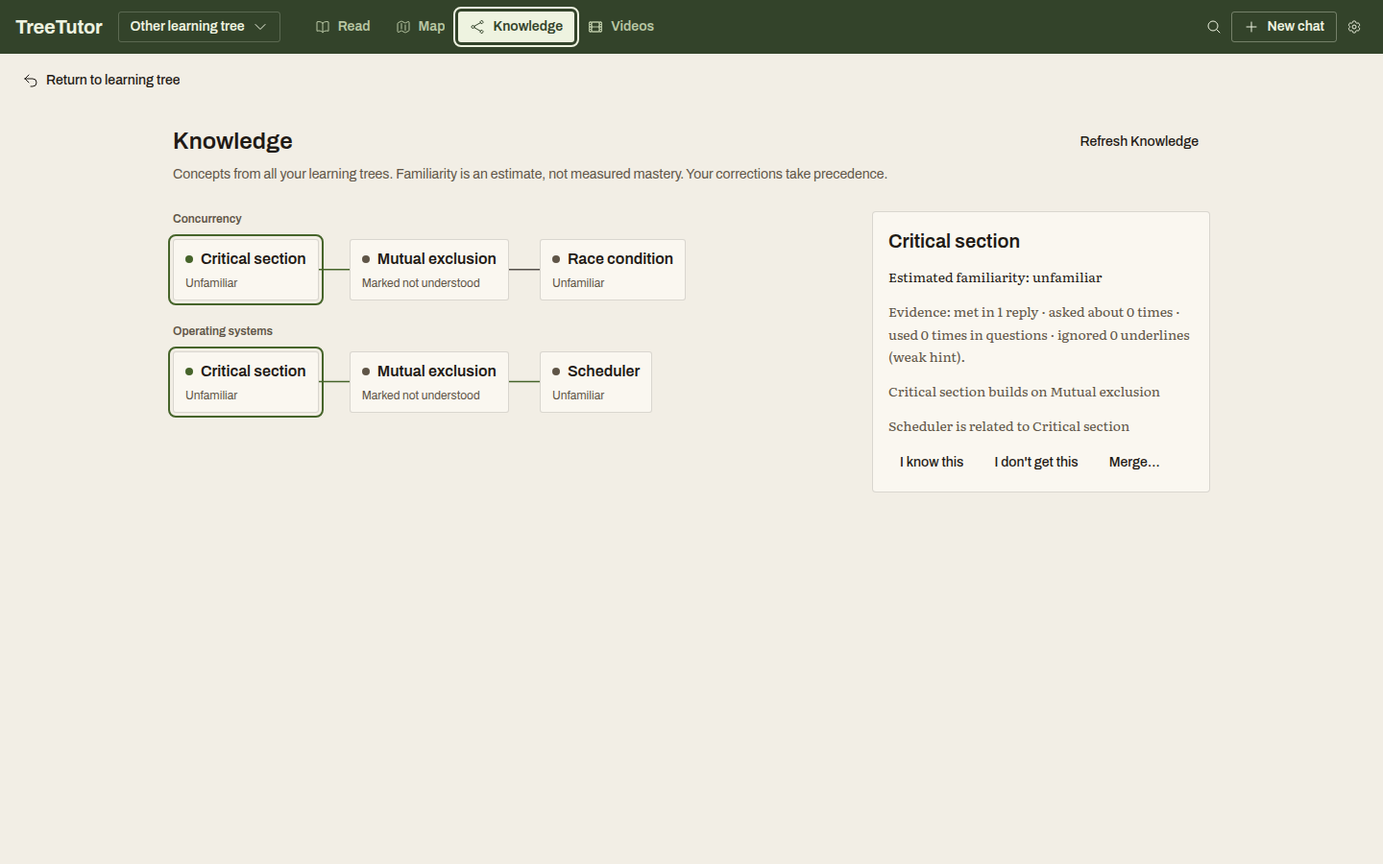
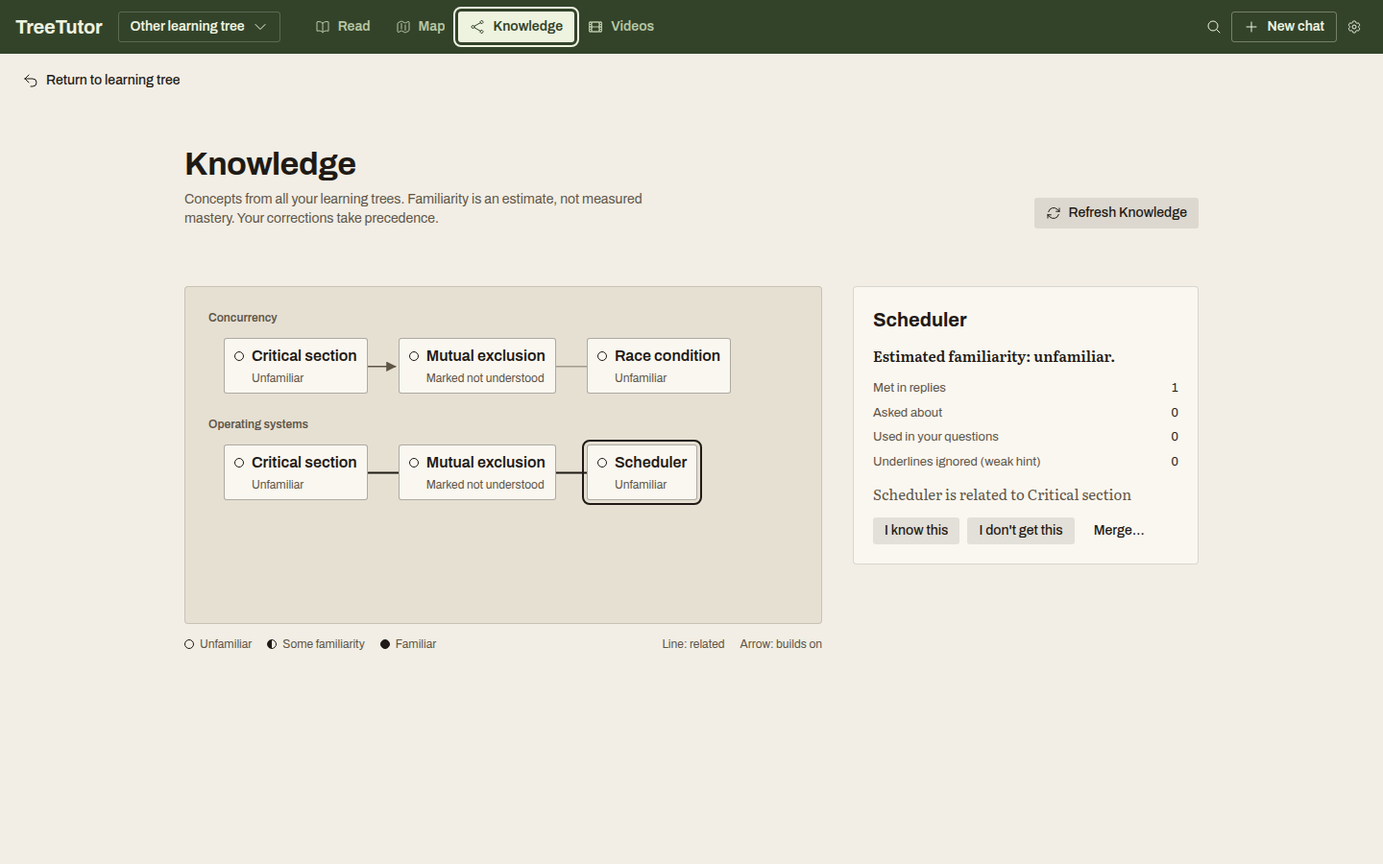
task: TreeTutor-y36.8 Knowledge and Videos views

diff --git a/src/KnowledgePage.tsx b/src/KnowledgePage.tsx
@@ -4,6 +4,7 @@ import { Heading, Text } from '@astryxdesign/core/Text';
 import { Button } from '@astryxdesign/core/Button';
 import { Dialog, DialogHeader } from '@astryxdesign/core/Dialog';
 import { Selector } from '@astryxdesign/core/Selector';
+import { ArrowPathIcon } from '@heroicons/react/24/outline';
 
 type Concept = { name: string; topics: string[]; familiarity: number; correction: 'known' | 'unknown' | null; evidence: { met: number; asked: number; used: number; ignored: number } };
 export type Graph = { topics: string[]; concepts: Concept[]; links: { from: string; to: string; kind: 'related' | 'builds on' }[] };
@@ -11,8 +12,9 @@ type Api = (path: string, body?: unknown) => Promise<Graph>;
 const familiarity = (c: Concept) => c.correction === 'known' ? 'You marked this as known' : c.correction === 'unknown' ? 'You marked this as not understood' : `Estimated familiarity: ${c.familiarity >= 0.8 ? 'familiar' : c.familiarity >= 0.35 ? 'some familiarity' : 'unfamiliar'}`;
 
 const level = (c: Concept) => c.correction === 'known' ? 'Marked known' : c.correction === 'unknown' ? 'Marked not understood' : c.familiarity >= 0.8 ? 'Familiar' : c.familiarity >= 0.35 ? 'Some familiarity' : 'Unfamiliar';
-const count = (n: number, one: string, many: string) => `${n} ${n === 1 ? one : many}`;
-type Line = { x1: number; y1: number; x2: number; y2: number; key: string; selected: boolean };
+// Familiarity is drawn by form (empty, half, full ring), never hue alone.
+const fill = (c: Concept) => c.correction === 'known' ? 'full' : c.correction === 'unknown' ? 'none' : c.familiarity >= 0.8 ? 'full' : c.familiarity >= 0.35 ? 'some' : 'none';
+type Line = { x1: number; y1: number; x2: number; y2: number; key: string; kind: 'related' | 'builds on'; selected: boolean };
 
 export default function KnowledgePage({ api, activity }: { api: Api; activity: string }) {
   const [graph, setGraph] = useState<Graph>();
@@ -32,11 +34,15 @@ export default function KnowledgePage({ api, activity }: { api: Api; activity: s
     if (!box || !graph) return setLines([]);
     const draw = () => {
       const o = box.getBoundingClientRect();
-      const centres = (name: string) => [...box.querySelectorAll<HTMLElement>(`[data-concept="${CSS.escape(name)}"]`)].map(e => { const r = e.getBoundingClientRect(); return { x: r.left - o.left + r.width / 2, y: r.top - o.top + r.height / 2 }; });
+      const centres = (name: string) => [...box.querySelectorAll<HTMLElement>(`[data-concept="${CSS.escape(name)}"]`)].map(e => { const r = e.getBoundingClientRect(); return { x: r.left - o.left + r.width / 2, y: r.top - o.top + r.height / 2, w: r.width / 2, h: r.height / 2 }; });
       setLines(graph.links.flatMap(l => {
-        const pairs = centres(l.from).flatMap(a => centres(l.to).map(b => ({ x1: a.x, y1: a.y, x2: b.x, y2: b.y })));
-        const best = pairs.sort((p, q) => Math.hypot(p.x2 - p.x1, p.y2 - p.y1) - Math.hypot(q.x2 - q.x1, q.y2 - q.y1))[0];
-        return best ? [{ ...best, key: `${l.from}-${l.to}-${l.kind}`, selected: l.from === selected?.name || l.to === selected?.name }] : [];
+        const pairs = centres(l.from).flatMap(a => centres(l.to).map(b => ({ a, b })));
+        const best = pairs.sort((p, q) => Math.hypot(p.b.x - p.a.x, p.b.y - p.a.y) - Math.hypot(q.b.x - q.a.x, q.b.y - q.a.y))[0];
+        if (!best) return [];
+        // Cards cover the line's start; a builds-on arrow stops just outside the target card's edge so its head shows.
+        const { a, b } = best, dx = b.x - a.x, dy = b.y - a.y, edge = Math.min(b.w / Math.abs(dx), b.h / Math.abs(dy)) + 4 / (Math.hypot(dx, dy) || 1);
+        const s = l.kind === 'builds on' && edge < 1 ? edge : 0;
+        return [{ x1: a.x, y1: a.y, x2: b.x - dx * s, y2: b.y - dy * s, key: `${l.from}-${l.to}-${l.kind}`, kind: l.kind, selected: l.from === selected?.name || l.to === selected?.name }];
       }));
     };
     draw();
@@ -84,36 +90,40 @@ export default function KnowledgePage({ api, activity }: { api: Api; activity: s
     } catch (e) { setError((e as Error).message); }
     finally { setBusy(false); }
   }
-  return <VStack padding={5} gap={5} className="knowledge-content">
+  return <VStack gap={5} className="knowledge-content">
     <VStack gap={2}>
-      <HStack gap={3} hAlign="between" vAlign="center" wrap="wrap"><Heading level={1}>Knowledge</Heading><Button label="Refresh Knowledge" variant="ghost" size="sm" isDisabled={busy} onClick={() => void load()} /></HStack>
-      <Text color="secondary">Concepts from all your learning trees. Familiarity is an estimate, not measured mastery. Your corrections take precedence.</Text>
+      <HStack gap={4} vAlign="end" wrap="wrap" className="library-head">
+        <VStack gap={2}><Heading level={1}>Knowledge</Heading><Text color="secondary" className="library-intro">Concepts from all your learning trees. Familiarity is an estimate, not measured mastery. Your corrections take precedence.</Text></VStack>
+        <Button label="Refresh Knowledge" variant="secondary" icon={<ArrowPathIcon />} isDisabled={busy} onClick={() => void load()} />
+      </HStack>
       <Text role="status">{status}</Text>
       {error && !merge && <Text role="alert">{error}</Text>}
       {!graph && !error && <Text role="status">Loading knowledge…</Text>}
       {graph && !graph.concepts.length && <Text>No concepts yet. Concepts appear here after suggestions find them in a saved tutor reply.</Text>}
     </VStack>
     {graph && selected && <div className="knowledge-body">
-      <div className="knowledge-field" ref={field}>
-        <svg className="knowledge-links" aria-hidden="true">{lines.map(l => <line key={l.key} x1={l.x1} y1={l.y1} x2={l.x2} y2={l.y2} data-selected={l.selected} />)}</svg>
+      <div><div className="knowledge-field" ref={field}>
+        <svg className="knowledge-links" aria-hidden="true"><defs><marker id="knowledge-arrow" viewBox="0 0 10 10" refX="9" refY="5" markerWidth="7" markerHeight="7" orient="auto"><path d="M0 0 10 5 0 10z" /></marker></defs>
+          {lines.map(l => <line key={l.key} x1={l.x1} y1={l.y1} x2={l.x2} y2={l.y2} data-kind={l.kind} data-selected={l.selected} markerEnd={l.kind === 'builds on' ? 'url(#knowledge-arrow)' : undefined} />)}</svg>
         {graph.topics.map(topic => <section key={topic} aria-label={topic} className="knowledge-topic">
           <Heading level={2}>{topic}</Heading>
           <div className="knowledge-cards">
             {graph.concepts.filter(c => c.topics.includes(topic)).map(c => <button key={c.name} type="button" className="concept-card" data-concept={c.name} aria-pressed={c === selected} aria-controls="concept-detail" onClick={() => setChosen(c.name)}>
-              <span className="concept-name"><span className="activity-dot" />{c.name}</span>
+              <span className="concept-name"><i className="fam" data-fill={fill(c)} aria-hidden="true" />{c.name}</span>
               <span className="concept-level">{level(c)}</span>
             </button>)}
           </div>
         </section>)}
       </div>
+      <div className="knowledge-key" aria-label="Key"><span><i className="fam" data-fill="none" />Unfamiliar</span><span><i className="fam" data-fill="some" />Some familiarity</span><span><i className="fam" data-fill="full" />Familiar</span><span className="knowledge-key-links">Line: related</span><span>Arrow: builds on</span></div></div>
       <aside id="concept-detail" className="knowledge-detail" aria-label={`${selected.name} details`}><VStack gap={3}>
         <Heading level={2}>{selected.name}</Heading>
-        <Text className="knowledge-reading">{familiarity(selected)}</Text>
-        <Text className="knowledge-reading" color="secondary">Evidence: met in {count(selected.evidence.met, 'reply', 'replies')} · asked about {count(selected.evidence.asked, 'time', 'times')} · used {count(selected.evidence.used, 'time', 'times')} in questions · ignored {count(selected.evidence.ignored, 'underline', 'underlines')} (weak hint).</Text>
+        <Text className="knowledge-reading"><strong>{familiarity(selected)}.</strong></Text>
+        <dl className="knowledge-evidence"><dt>Met in replies</dt><dd>{selected.evidence.met}</dd><dt>Asked about</dt><dd>{selected.evidence.asked}</dd><dt>Used in your questions</dt><dd>{selected.evidence.used}</dd><dt>Underlines ignored (weak hint)</dt><dd>{selected.evidence.ignored}</dd></dl>
         {graph.links.filter(l => l.from === selected.name || l.to === selected.name).map(l => <Text key={`${l.from}-${l.to}-${l.kind}`} className="knowledge-reading" color="secondary">{l.from} {l.kind === 'related' ? 'is related to' : 'builds on'} {l.to}</Text>)}
-        <HStack gap={2} wrap="wrap" role="group" aria-label={`Corrections for ${selected.name}`}>
-          <Button label="I know this" size="sm" variant={selected.correction === 'known' ? 'secondary' : 'ghost'} aria-pressed={selected.correction === 'known'} isDisabled={busy} onClick={() => void correct(selected.name, 'known')} />
-          <Button label="I don't get this" size="sm" variant={selected.correction === 'unknown' ? 'secondary' : 'ghost'} aria-pressed={selected.correction === 'unknown'} isDisabled={busy} onClick={() => void correct(selected.name, 'unknown')} />
+        <HStack gap={2} wrap="wrap" role="group" aria-label={`Corrections for ${selected.name}`} className="knowledge-actions">
+          <Button label="I know this" size="sm" variant="secondary" aria-pressed={selected.correction === 'known'} isDisabled={busy} onClick={() => void correct(selected.name, 'known')} />
+          <Button label="I don't get this" size="sm" variant="secondary" aria-pressed={selected.correction === 'unknown'} isDisabled={busy} onClick={() => void correct(selected.name, 'unknown')} />
           <Button label={`Merge ${selected.name}…`} size="sm" variant="ghost" isDisabled={busy || graph.concepts.length < 2} onClick={e => { origin.current = e.currentTarget; setError(''); setInto(''); setMerge(selected.name); }}>Merge…</Button>
         </HStack>
       </VStack></aside>

diff --git a/src/layout.ts b/src/layout.ts
@@ -73,26 +73,38 @@ html { view-transition-name: none; }
 .conversation { flex: 1; min-width: 0; min-height: 0; display: flex; flex-direction: column; }
 .conversation[hidden], .knowledge-panel[hidden], .library-panel[hidden] { display: none; }
 .knowledge-panel, .library-panel { flex: 1; min-height: 0; overflow: auto; }
-.knowledge-content { max-width: 70rem; margin-inline: auto; overflow-wrap: anywhere; }
-/* Knowledge: concept cards on the map's slate field, 1.5px chalk relations, selected concept in yellow (spec, Knowledge page). */
-.knowledge-content :focus-visible { outline: var(--focus-outline-width) solid var(--focus-outline-color); outline-offset: var(--focus-outline-offset); }
-.knowledge-body { display: grid; grid-template-columns: minmax(0, 1fr) minmax(16rem, 22rem); gap: var(--spacing-5); align-items: start; }
-.knowledge-field { position: relative; display: flex; flex-direction: column; gap: var(--spacing-6); min-width: 0; }
+.knowledge-content { max-width: 70rem; margin-inline: auto; padding: calc(5 * var(--treetutor-module)) calc(4 * var(--treetutor-module)) calc(8 * var(--treetutor-module)); overflow-wrap: anywhere; }
+/* Knowledge and Videos (mockup Knowledge, Videos): concepts on the deep field, familiarity by ring form, paper focus and selection. */
+.knowledge-content :focus-visible { outline: var(--focus-outline-width) solid var(--treetutor-paper); outline-offset: var(--focus-outline-offset); }
+.knowledge-body { display: grid; grid-template-columns: minmax(0, 1fr) minmax(16rem, 360px); gap: calc(4 * var(--treetutor-module)); align-items: start; }
+.knowledge-field { position: relative; display: flex; flex-direction: column; gap: var(--spacing-6); min-width: 0; min-height: 22rem; padding: 24px; border: thin solid var(--color-border); border-radius: var(--radius-container); background: var(--color-background-muted); }
 .knowledge-links { position: absolute; inset: 0; width: 100%; height: 100%; overflow: visible; pointer-events: none; }
-.knowledge-links line { stroke: var(--treetutor-branch-color); stroke-width: 1.5px; stroke-linecap: round; }
-.knowledge-links line[data-selected=true] { stroke: var(--color-accent); }
-.knowledge-topic { position: relative; display: flex; flex-direction: column; gap: var(--spacing-3); }
-.knowledge-topic h2 { font-size: var(--font-size-sm); font-weight: var(--font-weight-semibold); color: var(--color-text-secondary); }
-.knowledge-cards { display: flex; flex-wrap: wrap; gap: var(--spacing-6) var(--spacing-8); }
-.concept-card { display: flex; flex-direction: column; align-items: flex-start; gap: var(--spacing-1); max-width: 14rem; padding: var(--spacing-2) var(--spacing-3); border: thin solid var(--color-border); border-radius: var(--radius-element); background: var(--color-background-surface); color: var(--color-text-primary); font: inherit; text-align: start; cursor: pointer; transition: border-color var(--duration-fast) ease-out; }
+.knowledge-links line { stroke: var(--color-border-emphasized); stroke-width: 1.5px; stroke-linecap: round; }
+.knowledge-links line[data-kind="builds on"] { stroke: var(--color-text-secondary); }
+.knowledge-links line[data-selected=true] { stroke: var(--treetutor-paper); stroke-width: 2px; }
+.knowledge-links marker path { fill: var(--color-text-secondary); }
+.knowledge-topic { position: relative; display: flex; flex-direction: column; gap: 12px; }
+.knowledge-topic h2 { font-size: 12px; font-weight: var(--font-weight-semibold); color: var(--color-text-secondary); }
+.knowledge-cards { display: flex; flex-wrap: wrap; gap: var(--spacing-6) var(--spacing-8); padding-inline-start: 16px; }
+.concept-card { display: flex; flex-direction: column; align-items: flex-start; gap: 2px; max-width: 16rem; padding: 6px 10px; border: thin solid var(--color-border-emphasized); border-radius: var(--radius-element); background: var(--color-background-surface); color: var(--color-text-primary); font: inherit; text-align: start; cursor: pointer; transition: border-color var(--duration-fast) ease-out; }
 .concept-card:hover { border-color: var(--color-text-secondary); }
-.concept-card[aria-pressed=true] { outline: var(--focus-outline-width) solid var(--color-accent); outline-offset: var(--focus-outline-offset); }
-.concept-card[aria-pressed=true] .activity-dot { background: var(--color-accent); }
-.concept-name { display: flex; align-items: center; gap: var(--spacing-2); font-weight: var(--font-weight-semibold); }
-.concept-level { font-size: var(--font-size-sm); color: var(--color-text-secondary); }
-.knowledge-detail { position: sticky; top: var(--spacing-3); padding: var(--spacing-4); border: thin solid var(--color-border); border-radius: var(--radius-container); background: var(--color-background-surface); }
-.knowledge-reading, .knowledge-reading.astryx-text { font-family: var(--treetutor-font-reading); line-height: 1.7; }
-@media (max-width: 48rem) { .knowledge-body { grid-template-columns: minmax(0, 1fr); } .knowledge-detail { position: static; } }
+.concept-card[aria-pressed=true] { outline: 2px solid var(--treetutor-paper); outline-offset: 3px; }
+.concept-name { display: flex; align-items: center; gap: 8px; font-weight: var(--font-weight-semibold); }
+.concept-level { padding-inline-start: 18px; font-size: 12px; color: var(--color-text-secondary); }
+.fam { display: inline-block; flex: none; width: 10px; height: 10px; border: 1.5px solid var(--color-text-primary); border-radius: 50%; }
+.fam[data-fill=some] { background: linear-gradient(90deg, var(--color-text-primary) 50%, transparent 50%); }
+.fam[data-fill=full] { background: var(--color-text-primary); }
+.knowledge-key { display: flex; flex-wrap: wrap; gap: 8px 16px; margin-top: 12px; font-size: 12px; color: var(--color-text-secondary); }
+.knowledge-key span { display: inline-flex; align-items: center; gap: 6px; }
+.knowledge-key-links { margin-inline-start: auto; }
+.knowledge-detail { position: sticky; top: 0; padding: 20px; border: thin solid var(--color-border); border-radius: var(--radius-container); background: var(--color-background-surface); }
+.knowledge-detail h2 { font-size: 20px; font-weight: 700; }
+.knowledge-reading, .knowledge-reading.astryx-text { font-family: var(--treetutor-font-reading); font-size: 15px; line-height: 1.6; color: var(--color-text-secondary); }
+.knowledge-reading strong { color: var(--color-text-primary); font-weight: 600; }
+.knowledge-evidence { display: grid; grid-template-columns: 1fr auto; gap: 6px 16px; margin: 0; font-size: 13px; color: var(--color-text-secondary); }
+.knowledge-evidence dd { margin: 0; color: var(--color-text-primary); font-variant-numeric: tabular-nums; text-align: right; }
+.knowledge-actions button[aria-pressed=true] { border-color: var(--color-accent); background: var(--color-accent-muted); }
+@media (max-width: 48rem) { .knowledge-content { padding: calc(3 * var(--treetutor-module)) calc(2 * var(--treetutor-module)) calc(6 * var(--treetutor-module)); } .knowledge-body { grid-template-columns: minmax(0, 1fr); } .knowledge-detail { position: static; } .knowledge-key-links { margin-inline-start: 0; } }
 @media (prefers-reduced-motion: reduce) { .concept-card { transition: none; } }
 .tree-workspace { position: relative; display: flex; flex: 1; min-height: 0; min-width: 0; flex-direction: row; }
 .reading-workspace { display: flex; flex: 1; min-width: 0; min-height: 0; }
@@ -233,7 +245,10 @@ html { view-transition-name: none; }
 .diagram-card h3 { font-size: 14px; font-weight: 600; }
 .diagram-open { display: block; max-width: 100%; padding: 0; border: 0; background: none; cursor: zoom-in; }
 .diagram-open img { display: block; max-width: 100%; height: auto; }
-.video-library { display: grid; grid-template-columns: repeat(auto-fill, minmax(min(100%, 24rem), 1fr)); gap: var(--spacing-5); align-items: start; }
+.video-library { display: grid; grid-template-columns: repeat(auto-fill, minmax(min(100%, 18rem), 1fr)); gap: 32px 24px; align-items: start; }
+.video-volume { min-width: 0; overflow-wrap: anywhere; }
+.video-volume h3 { margin-top: 4px; font-size: 15px; font-weight: 600; }
+.video-volume-actions { margin-inline-start: -8px; }
 .video-frame { display: block; width: 100%; aspect-ratio: 16 / 9; border-radius: var(--radius-container); background: var(--color-background-body); }
 .video-stage { position: relative; }
 .video-stage > .astryx-skeleton, .video-controls { position: absolute; inset: 0; }

diff --git a/src/VideoCard.tsx b/src/VideoCard.tsx
@@ -1,10 +1,10 @@
 import { useEffect, useId, useRef, useState, type ReactNode } from 'react';
-import { VStack } from '@astryxdesign/core/Layout';
+import { HStack, VStack } from '@astryxdesign/core/Layout';
 import { Heading, Text } from '@astryxdesign/core/Text';
 import { Skeleton } from '@astryxdesign/core/Skeleton';
 import { Button } from '@astryxdesign/core/Button';
 import { IconButton } from '@astryxdesign/core/IconButton';
-import { ArrowPathIcon, CheckIcon, FilmIcon } from '@heroicons/react/24/outline';
+import { ArrowPathIcon, ArrowsPointingOutIcon, CheckIcon, FilmIcon } from '@heroicons/react/24/outline';
 import { Lightbox } from '@astryxdesign/core/Lightbox';
 import type { Artifact } from './artifacts';
 import { STEPS, elapsed, estimateVideoProgress, videoStep, videoStepDetail } from './videoProgress';
@@ -48,9 +48,10 @@ export default function VideoCard({ artifact, inline = false, onAction, media = 
     <Heading level={3} id={`${id}-title`} className={state === 'ready' || drafting ? undefined : 'sr-only'}>{artifact.title}</Heading>
     {artifact.description && state === 'ready' && <Text id={`${id}-description`}>{artifact.description}</Text>}
   </VStack>;
-  return <section className={`video-card ${inline ? 'video-inline' : 'diagram-card'}`} tabIndex={inline ? -1 : undefined} aria-live="off" aria-labelledby={`${id}-title`} aria-describedby={artifact.description ? `${id}-description` : undefined} data-artifact={artifact.id} data-state={state}>
-    <VStack gap={inline ? 2 : 3} padding={inline ? 0 : 3}>
-      {!inline && <Heading level={3} id={`${id}-title`}>{artifact.title}</Heading>}
+  const open = state === 'ready' && <Button key="action" label="Open large" variant="ghost" size="sm" icon={<ArrowsPointingOutIcon />} aria-label={`Open large: ${artifact.title}`} clickAction={() => setEnlarged(true)} />;
+  // Library cards (mockup Videos): frame first, then title, description and an action row that leads with Open large.
+  return <section className={`video-card ${inline ? 'video-inline' : 'video-volume'}`} tabIndex={inline ? -1 : undefined} aria-live="off" aria-labelledby={`${id}-title`} aria-describedby={artifact.description ? `${id}-description` : undefined} data-artifact={artifact.id} data-state={state}>
+    <VStack gap={2}>
       <section className={`video-stage${!inline || state === 'ready' || drafting ? ' video-frame' : ''}`}>
         {state === 'pending' && !inline && <Skeleton />}
         {drafting && <div className="video-draft">
@@ -71,12 +72,13 @@ export default function VideoCard({ artifact, inline = false, onAction, media = 
           {state === 'ready' && onAction && <IconButton label={`Try a different version of video: ${artifact.title}`} tooltip="Try a different version" icon={<ArrowPathIcon />} variant="ghost" size="sm" clickAction={() => onAction('regenerate')} />}
           {/* Keep the action mounted so Cancel → Retry/Open large preserves keyboard focus. */}
           {drafting && <time className="video-elapsed" aria-label="Elapsed">{elapsed(artifact, now)}</time>}
-          {(state === 'ready' || onAction) && <Button key="action" label={state === 'ready' ? 'Open large' : state === 'pending' ? 'Cancel video' : state === 'unavailable' ? 'Regenerate video' : 'Retry video'} variant="ghost" size="sm" clickAction={() => state === 'ready' ? setEnlarged(true) : onAction?.(state === 'pending' ? 'cancel' : 'retry')} />}
+          {inline && (state === 'ready' || onAction) && <Button key="action" label={state === 'ready' ? 'Open large' : state === 'pending' ? 'Cancel video' : state === 'unavailable' ? 'Regenerate video' : 'Retry video'} variant="ghost" size="sm" clickAction={() => state === 'ready' ? setEnlarged(true) : onAction?.(state === 'pending' ? 'cancel' : 'retry')} />}
         </VStack>
       </section>
       {caption}
-      {!inline && <Text id={`${id}-description`}>{artifact.description}</Text>}
-      {actions}
+      {!inline && <Heading level={3} id={`${id}-title`}>{artifact.title}</Heading>}
+      {!inline && <Text id={`${id}-description`} color="secondary">{artifact.description}</Text>}
+      {!inline && <HStack gap={1} wrap="wrap" className="video-volume-actions">{open}{actions}</HStack>}
       {state === 'ready' && enlarged && <Lightbox isOpen onOpenChange={setEnlarged} hasAutoPlay media={{ src: media, alt: `Video: ${artifact.title}`, caption: artifact.title, type: 'video' }} />}
     </VStack>
   </section>;

diff --git a/src/VideoLibrary.tsx b/src/VideoLibrary.tsx
@@ -3,7 +3,7 @@ import { VStack, HStack } from '@astryxdesign/core/Layout';
 import { Heading, Text } from '@astryxdesign/core/Text';
 import { Button } from '@astryxdesign/core/Button';
 import { AlertDialog } from '@astryxdesign/core/AlertDialog';
-import { FolderOpenIcon, TrashIcon } from '@heroicons/react/24/outline';
+import { ArrowPathIcon, FolderOpenIcon, TrashIcon } from '@heroicons/react/24/outline';
 import VideoCard from './VideoCard';
 
 // Library rows carry no conversation, discussion text or production details.
@@ -40,20 +40,22 @@ export default function VideoLibrary({ api, activity }: { api: (path: string, bo
     catch (e) { if (current === version.current) setError((e as Error).message); }
   }
   useEffect(() => { void load(); return () => { version.current++; }; }, [activity]);
-  return <VStack padding={5} gap={5} className="knowledge-content">
+  return <VStack gap={5} className="knowledge-content">
     <VStack gap={2}>
-      <HStack gap={3} hAlign="between" vAlign="center" wrap="wrap"><Heading level={1}>Videos</Heading><Button id="refresh-videos" label="Refresh Videos" variant="ghost" size="sm" onClick={() => void load()} /></HStack>
-      <Text color="secondary">Every saved video from your learning trees. Videos stay here after you delete the conversation they came from.</Text>
+      <HStack gap={4} vAlign="end" wrap="wrap" className="library-head">
+        <VStack gap={2}><Heading level={1}>Videos</Heading><Text color="secondary" className="library-intro">Every saved video from your learning trees. Videos stay here after you delete the conversation they came from.</Text></VStack>
+        <Button id="refresh-videos" label="Refresh Videos" variant="secondary" icon={<ArrowPathIcon />} onClick={() => void load()} />
+      </HStack>
       {error && <Text role="alert">{error}</Text>}
       <Text role="status" color="secondary">{notice}</Text>
       {!videos && !error && <Text role="status">Loading videos…</Text>}
       {videos && !videos.length && <Text color="secondary">No saved videos yet. Ask the tutor for a video in any conversation.</Text>}
     </VStack>
     {!!videos?.length && <section className="video-library" aria-label="Saved videos">
-      {videos.map(v => <VideoCard key={v.id} artifact={{ ...v, status: 'ready', conversation: '' }} media={`/api/videos/${v.id}/media`} actions={<HStack gap={2} wrap="wrap">
+      {videos.map(v => <VideoCard key={v.id} artifact={{ ...v, status: 'ready', conversation: '' }} media={`/api/videos/${v.id}/media`} actions={<>
         {v.available !== false && <Button label="Show in folder" variant="ghost" size="sm" icon={<FolderOpenIcon />} aria-label={`Show “${v.title}” in folder`} onClick={() => void reveal(v)} />}
         <Button label={v.available === false ? 'Remove from Videos' : 'Move to trash'} variant="ghost" size="sm" icon={<TrashIcon />} aria-label={`${v.available === false ? 'Remove' : 'Move'} “${v.title}” ${v.available === false ? 'from Videos' : 'to the system trash'}`} onClick={() => { setTrashError(''); setTrashing(v); }} />
-      </HStack>} />)}
+      </>} />)}
     </section>}
     <AlertDialog isOpen={!!trashing} onOpenChange={open => { if (!open && !busy) setTrashing(undefined); }} title={trashing?.available === false ? `Remove “${trashing?.title ?? ''}” from Videos?` : `Move “${trashing?.title ?? ''}” to the trash?`}
       description={`${trashing?.available === false ? 'Its saved file is already missing, so only the library entry is removed.' : 'The video file moves to your system trash, where you can restore it.'} Your usage history is kept, and TreeTutor will not regenerate it.${trashError ? ` ${trashError}` : ''}`}
